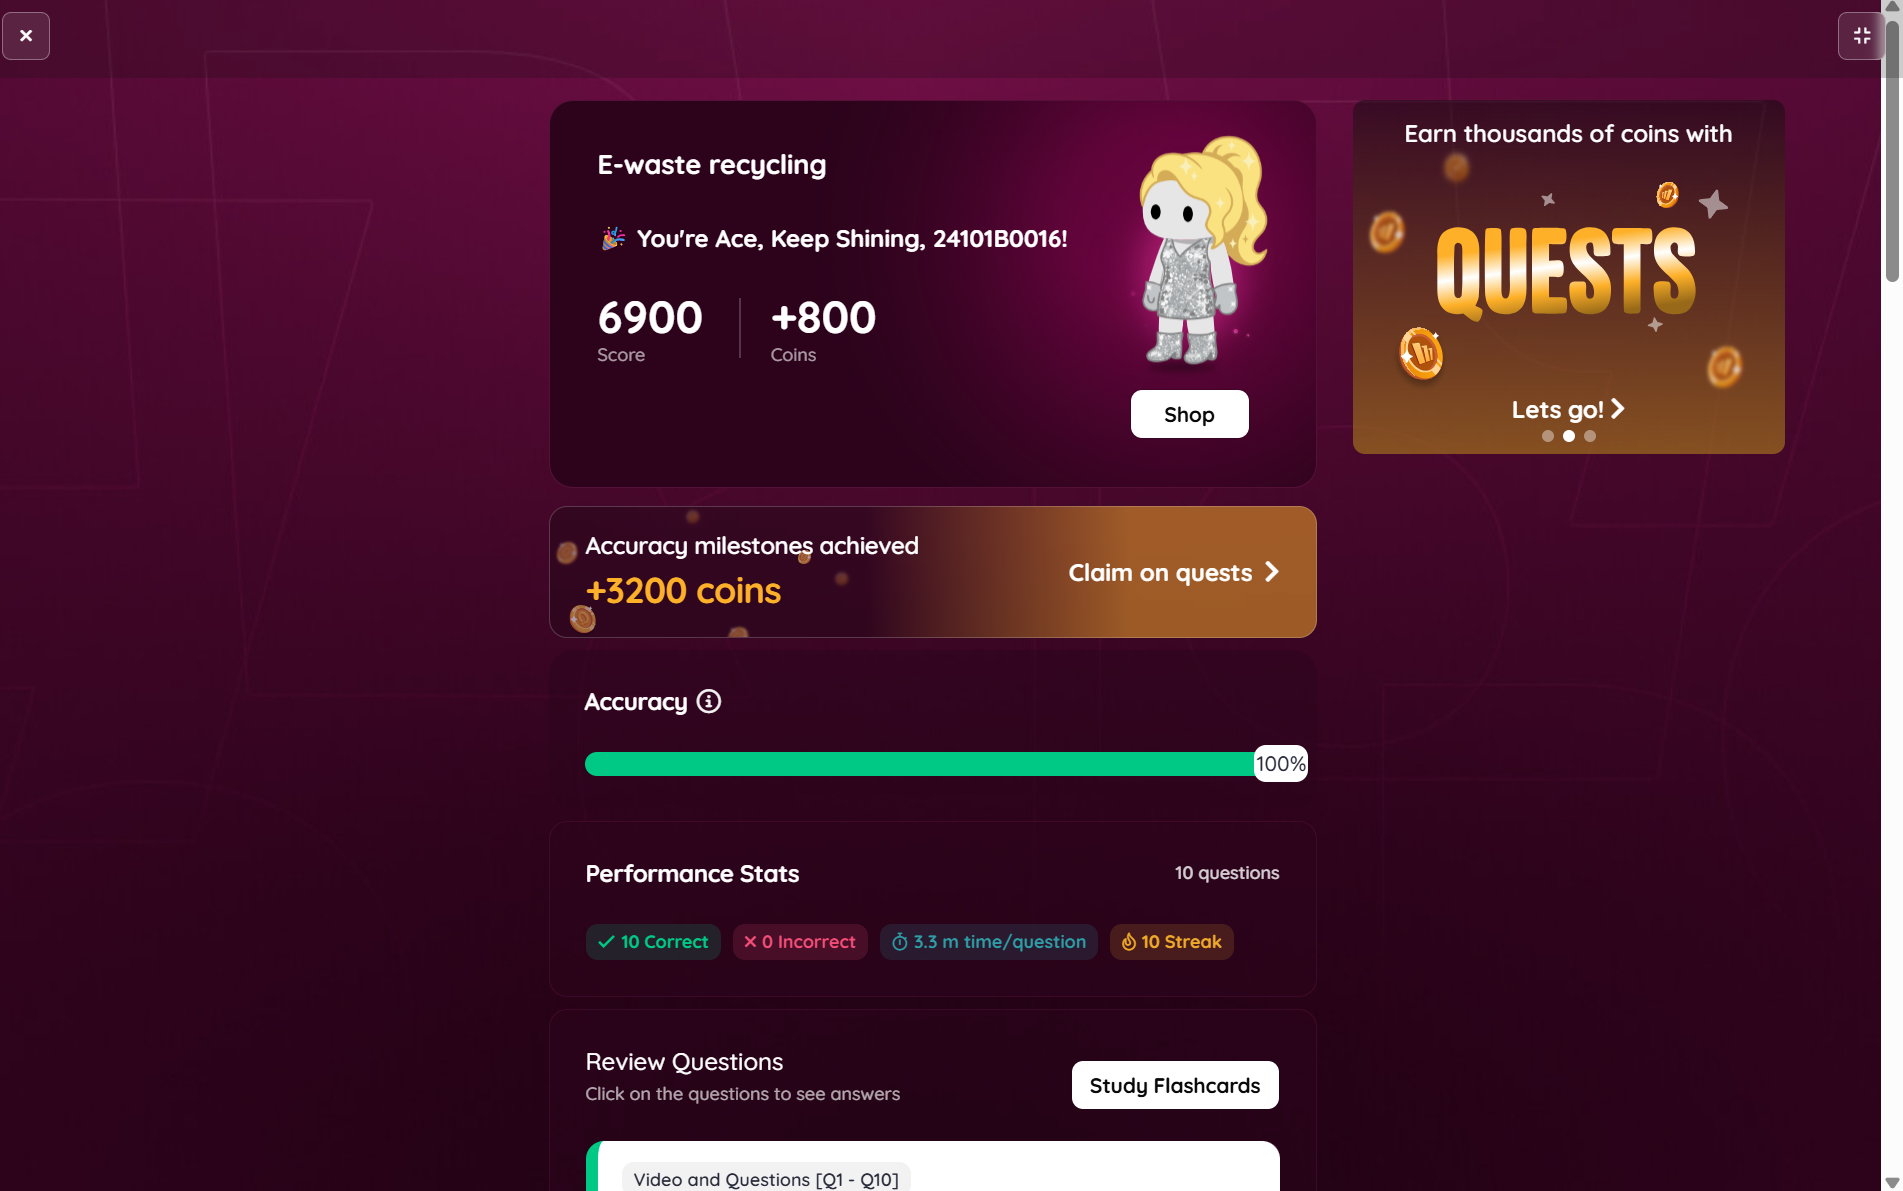
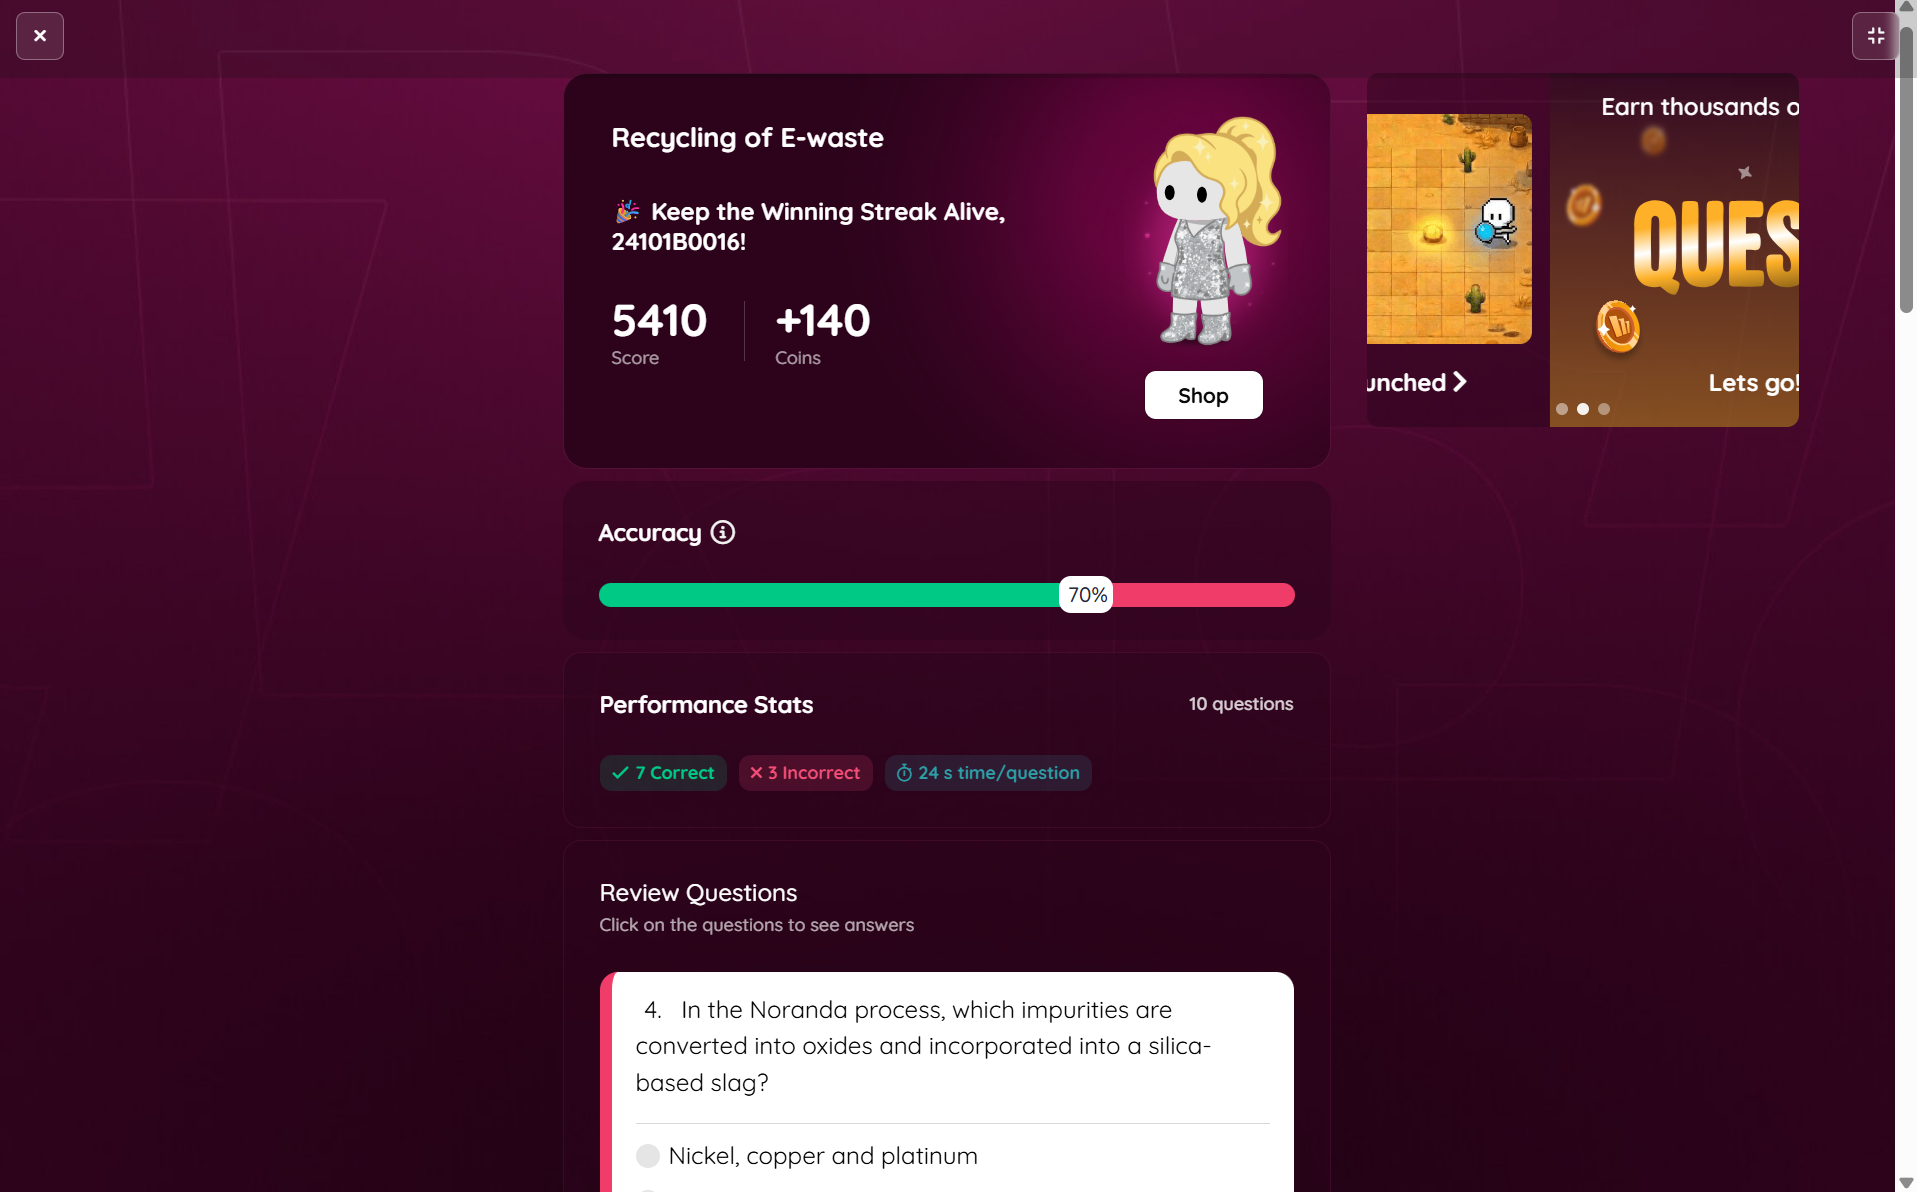
Update video activity assignment

diff --git a/src/routes/assignments.tsx b/src/routes/assignments.tsx
@@ -75,7 +75,7 @@ const ASSIGNMENT_FILES = [
     ],
   },
   {
-    title: "Quizz",
+    title: "Video Activity",
     description: "Screenshot from the completed video activity.",
     files: [
       {
